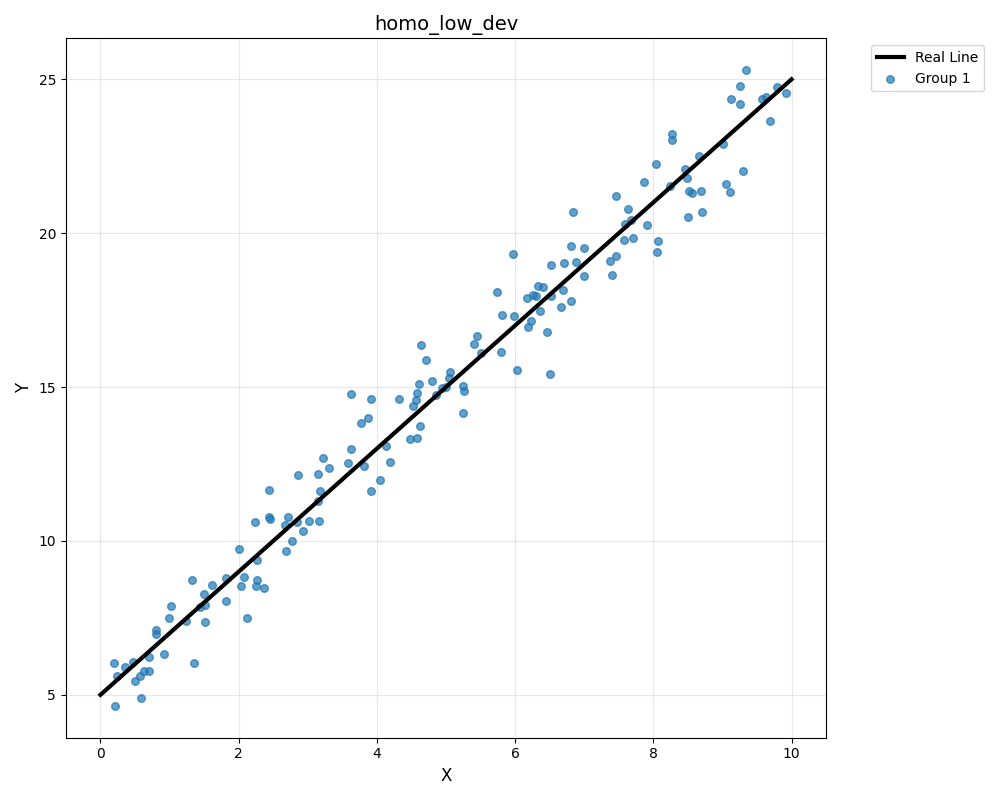
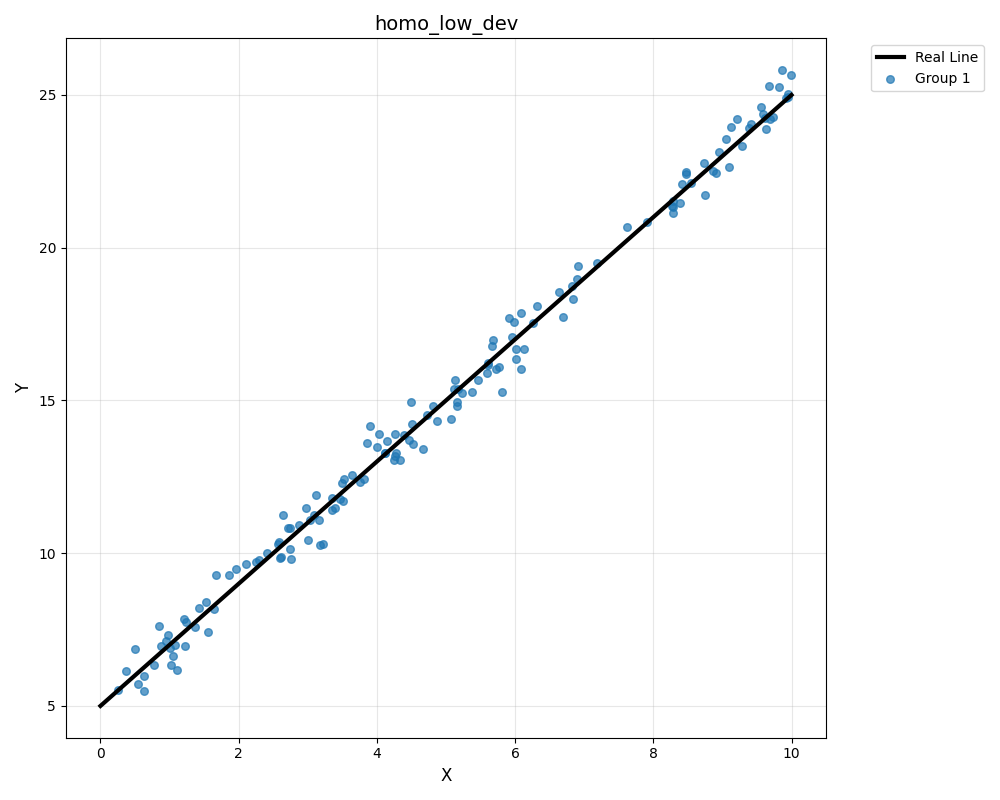
fixed loss based CS

diff --git a/managers/run_experiment.py b/managers/run_experiment.py
@@ -73,11 +73,11 @@ async def run_exp(experiment_type=None, experiment_CS_algo=None, total_number_of
 
 
     # initial dataset size of clients
-    cln_init_dataset_size = 100
+    cln_init_dataset_size = 30
 
 
     # average number of entries to be deleted/added per round for clients
-    avg_data_update = 10
+    avg_data_update = 3
 
 
     # Learning rate of the ML algorithm
@@ -123,7 +123,6 @@ async def run_exp(experiment_type=None, experiment_CS_algo=None, total_number_of
     #######################################################################
     ####################### VARIABLE SPOT END #############################
     #######################################################################
-    aggregated_results = []
     for run in range(repeat):
         logger = lg.Logger()
     
@@ -165,7 +164,7 @@ async def run_exp(experiment_type=None, experiment_CS_algo=None, total_number_of
                 
                 if ratio<0.2:             # positively skewed clients
                     slope = 2
-                    constant = 6
+                    constant = 7
                 elif 0.2 <= ratio < 0.4:    # high slope clients
                     slope = 3
                     constant = 5
@@ -174,7 +173,7 @@ async def run_exp(experiment_type=None, experiment_CS_algo=None, total_number_of
                     constant = 5
                 elif 0.6 <= ratio < 0.8:   # negatively skewed clients
                     slope = 2
-                    constant = 4
+                    constant = 3
                 else:               # low slope clients
                     slope = 1
                     constant = 5
@@ -201,17 +200,17 @@ async def run_exp(experiment_type=None, experiment_CS_algo=None, total_number_of
                 clients.append(cl.Client(client_name, exp_CS_algo, cln_init_dataset_size, avg_resp_vals, avg_dataset_vals))
     
         if exp_type == "homo_low_dev":
-            homo(1)
+            homo(0.2)
         elif exp_type == "homo_high_dev":
-            homo(5)
+            homo(1)
         elif exp_type == "semi_homo_low_dev":
-            semi_homo(1)
+            semi_homo(0.2)
         elif exp_type == "semi_homo_high_dev":
-            semi_homo(5)
+            semi_homo(1)
         elif exp_type == "hetero_low_dev":
-            hetero(1)
+            hetero(0.2)
         elif exp_type == "hetero_high_dev":
-            hetero(5)
+            hetero(1)
         else:
             raise KeyError(f"Invalid experiment type {exp_type}")
         
@@ -229,9 +228,6 @@ async def run_exp(experiment_type=None, experiment_CS_algo=None, total_number_of
     
         # print that the experiment is finished
         print(f"[{exp_type}+{exp_CS_algo}]" .ljust(32), "finished")
-        
-    ##JSON result as dict
-    aggregated_results.append(logger.get_dict())
 
 
 if __name__ == "__main__":

diff --git a/plot/dataset_visualizer.py b/plot/dataset_visualizer.py
@@ -71,30 +71,30 @@ if __name__ == "__main__":
     
     # homo_low_dev
     generate_linear_plot(real_slope, real_constant, starting_x, ending_x, 
-                        1, [2.0], [5.0], [150],
+                        0.2, [2.0], [5.0], [150],
                         "homo_low_dev")
     
     # homo_high_dev
     generate_linear_plot(real_slope, real_constant, starting_x, ending_x, 
-                        5, [2.0], [5.0], [150],
+                        1, [2.0], [5.0], [150],
                         "homo_high_dev")
     
     # semi_homo_low_dev
     generate_linear_plot(real_slope, real_constant, starting_x, ending_x, 
-                        1, [2.0, 2.0, 3.0, 2.0, 1.0], [5.0, 6.0, 5.0, 4.0, 5.0], [30, 30, 30, 30, 30],
+                        0.2, [2.0, 2.0, 3.0, 2.0, 1.0], [5.0, 8.0, 5.0, 2.0, 5.0], [30, 30, 30, 30, 30],
                         "semi_homo_low_dev")
     
     # semi_homo_high_dev
     generate_linear_plot(real_slope, real_constant, starting_x, ending_x, 
-                        5, [2.0, 2.0, 3.0, 2.0, 1.0], [5.0, 6.0, 5.0, 4.0, 5.0], [30, 30, 30, 30, 30],
+                        1, [2.0, 2.0, 3.0, 2.0, 1.0], [5.0, 8.0, 5.0, 2.0, 5.0], [30, 30, 30, 30, 30],
                         "semi_homo_high_dev")
     
     # hetero_low_dev
     generate_linear_plot(real_slope, real_constant, starting_x, ending_x, 
-                        1, [2.0, 2.0, 4.0], [5.0, 7.0, 5.0], [50, 50, 50],
+                        0.2, [2.0, 2.0, 4.0], [5.0, 8.0, 5.0], [50, 50, 50],
                         "hetero_low_dev")
     
     # hetero_high_dev
     generate_linear_plot(real_slope, real_constant, starting_x, ending_x, 
-                        5, [2.0, 2.0, 4.0], [5.0, 7.0, 5.0], [50, 50, 50],
+                        1, [2.0, 2.0, 4.0], [5.0, 8.0, 5.0], [50, 50, 50],
                         "hetero_high_dev")

diff --git a/fl_simulator/client_selection_algorithms/loss_value_based/loss_value_based_client.py b/fl_simulator/client_selection_algorithms/loss_value_based/loss_value_based_client.py
@@ -29,11 +29,11 @@ def get_updates(client, global_model_slope, global_model_constant):
     slope_update = client_slope - global_model_slope
     constant_update = client_constant - global_model_constant
     
-    # Calculate predictions using the client's model
-    y_pred = client_slope * x + client_constant
+    # Calculate predictions using the global model
+    y_pred_global = global_model_slope * x + global_model_constant
     
     # Calculate Mean Squared Residual Error (MSRE)
-    loss_value = np.mean((y - y_pred) ** 2)
+    loss_value = np.mean((y - y_pred_global) ** 2)
 
     # outlier detection
     if abs(slope_update) > 10:

diff --git a/fl_simulator/client_selection_algorithms/multi_criteria_based/multi_criteria_based_client.py b/fl_simulator/client_selection_algorithms/multi_criteria_based/multi_criteria_based_client.py
@@ -29,11 +29,11 @@ def get_updates(client, global_model_slope, global_model_constant):
     slope_update = client_slope - global_model_slope
     constant_update = client_constant - global_model_constant
 
-    # Calculate predictions using the client's model
-    y_pred = client_slope * x + client_constant
+    # Calculate predictions using the global model
+    y_pred_global = global_model_slope * x + global_model_constant
     
     # Calculate Mean Squared Residual Error (MSRE)
-    loss_value = np.mean((y - y_pred) ** 2)
+    loss_value = np.mean((y - y_pred_global) ** 2)
 
     # outlier detection
     if abs(slope_update) > 10:

diff --git a/managers/run_all_exp.py b/managers/run_all_exp.py
@@ -14,7 +14,7 @@ async def run_all_exp():
     exp_CS_algos = ["loss", "threshold", "reputation", "multi", "random","all"]
 
     tasks = [
-        run_experiment.run_exp(experiment_type=dt, experiment_CS_algo=algo, total_number_of_clients=15, repeat=10)
+        run_experiment.run_exp(experiment_type=dt, experiment_CS_algo=algo, total_number_of_clients=20, repeat=5)
             for dt in exp_data_types
             for algo in exp_CS_algos
     ]
